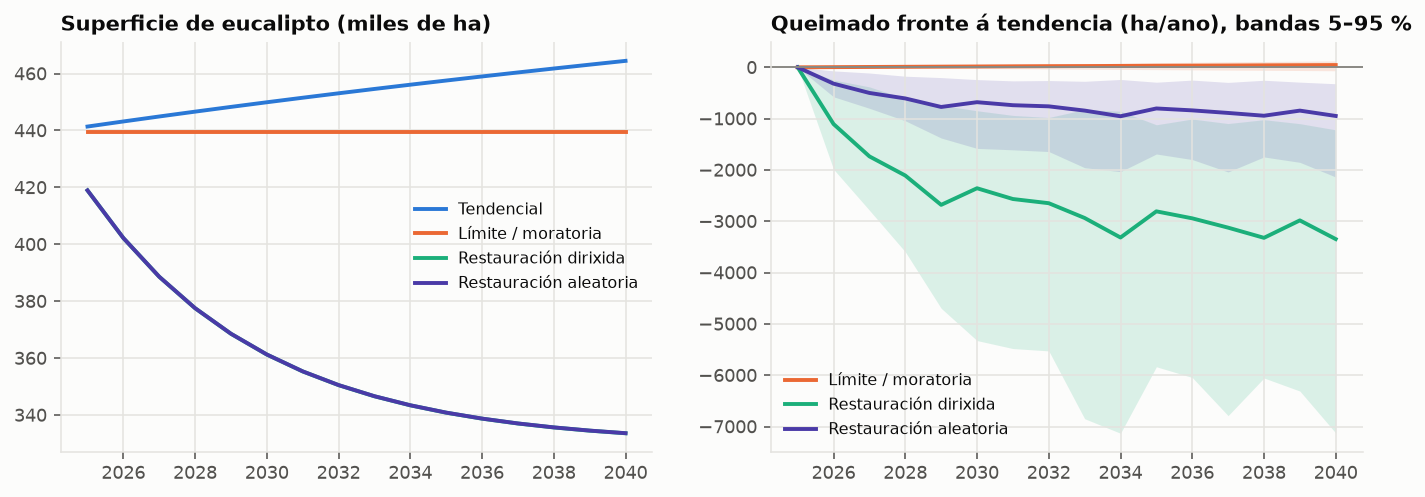
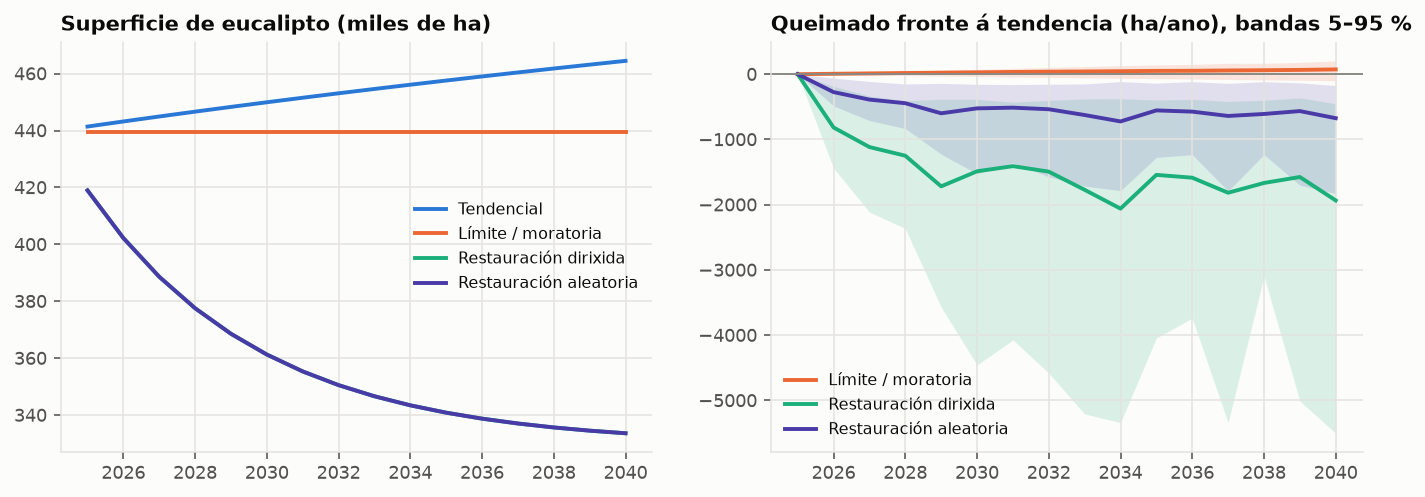
Refresh brief with calibrated projections; lookup effect labelling; README lookup section

diff --git a/src/eucalyptus_impact/real/lookup.py b/src/eucalyptus_impact/real/lookup.py
@@ -262,8 +262,9 @@ def format_lookup(r: dict, lang: str = "en") -> str:
             "sel": "na selección de restauración dirixida",
             "yes": "si",
             "no": "non",
-            "cag": "achega do eucalipto fronte a agricultura/outros",
-            "cnat": "achega do eucalipto fronte a frondosas",
+            "cag": "efecto medio galego do eucalipto desta cela, fronte a agricultura/outros",
+            "big": "maior ca a probabilidade da cela: o efecto medio non se traslada ben a celas de pouco risco",
+            "cnat": "o mesmo, fronte a frondosas",
             "ns": "non distinguible de cero",
             "plot": "Parcela IFN3 máis próxima (~1998)",
             "up": "Conca augas arriba",
@@ -298,8 +299,9 @@ def format_lookup(r: dict, lang: str = "en") -> str:
             "sel": "in targeted-restoration set",
             "yes": "yes",
             "no": "no",
-            "cag": "eucalyptus contribution vs agriculture/other",
-            "cnat": "eucalyptus contribution vs native broadleaf",
+            "cag": "Galicia-wide average effect of this cell's eucalyptus, vs agriculture/other",
+            "big": "larger than the cell's own probability: the average effect does not transfer well to low-risk cells",
+            "cnat": "same, vs native broadleaf",
             "ns": "not distinguishable from zero",
             "plot": "Nearest IFN3 plot (~1998)",
             "up": "Upstream catchment",
@@ -352,6 +354,8 @@ def format_lookup(r: dict, lang: str = "en") -> str:
                 f"  {L[lab]}: {pp(e['estimate'])} [{pp(e['ci'][0])}, {pp(e['ci'][1])}]"
                 + ("" if e["significant"] else f" ({L['ns']})")
             )
+            if abs(e["estimate"]) > k["annual_fire_probability"]:
+                lines.append(f"    ({L['big']})")
     if r.get("ifn3_plot"):
         pl = r["ifn3_plot"]
         lines += [f"\n{L['plot']}: {pl['distance_m']:.0f} m, {', '.join(pl['genera'])}"]

diff --git a/docs/galicia_real/informe.md b/docs/galicia_real/informe.md
@@ -29,7 +29,7 @@
 - **Eucalipto fronte a frondosas autóctonas.** O efecto anterior compárase coa agricultura e outros usos, que son os que máis arden. Fronte ás frondosas autóctonas, que son as que menos arden, 10 puntos de eucalipto no canto de frondosas cambian a probabilidade anual de queima en 0,39 puntos porcentuais (IC 95 % aproximado: -0,018 a 0,79; aproximado porque combina dúas estimacións separadas). Este é o contraste que importa para a restauración.
 - **Severidade.** Entre as celas queimadas, o efecto do eucalipto sobre a clase de severidade EFFIS é -0,24 por unidade de fracción (EE 0,28; non distinguible de cero; n = 2 146).
 - **Do lume á plantación.** Efecto da fracción queimada en 2018–2021 sobre a conversión bruta a eucalipto en 2024: 0,0063 (EE 0,0088), non distinguible de cero.
-- **Proxeccións a 2040.** Restaurar o 25 % do eucalipto cambia a superficie queimada media en -2 499 ha/ano se se fai nas celas prioritarias (banda 5–95 %: -3 577 a -866,9) e en -714,8 ha/ano se se fai ao chou (banda -1 077 a -244,2). Ao menos unha banda exclúe o cero, pero as proxeccións herdan a sensibilidade ao mapa descrita arriba.
+- **Proxeccións a 2040.** Restaurar o 25 % do eucalipto cambia a superficie queimada media en -1 453 ha/ano se se fai nas celas prioritarias (banda 5–95 %: -2 210 a -632) e en -515,5 ha/ano se se fai ao chou (banda -813,3 a -171,5). Ao menos unha banda exclúe o cero, pero as proxeccións herdan a sensibilidade ao mapa descrita arriba.
 - **Auga.** Sen datos de caudal non hai estimación. Unha proba de potencia nas 79 concas reais mostra que, cos mapas de 2017 e 2024, os aforos só detectarían un efecto de 139 mm/ano por 10 puntos de eucalipto ou maior; fai falta un historial de cuberta máis longo (sección 6).
 
 ## 1. Datos empregados
@@ -362,9 +362,9 @@ variabilidade meteorolóxica e a incerteza dos efectos.
 
 | escenario | Δ eucalipto (ha) | Δ frondosas autóctonas (ha) | Δ queimado medio (ha/ano) | percentil 5 | percentil 95 |
 |---|---|---|---|---|---|
-| Límite / moratoria | -24 918 | 1 663 | 22,85 | -33,92 | 66,07 |
-| Restauración dirixida | -130 892 | 107 637 | -2 499 | -3 577 | -866,9 |
-| Restauración aleatoria | -130 863 | 107 608 | -714,8 | -1 077 | -244,2 |
+| Límite / moratoria | -24 918 | 1 663 | 38,09 | -51,07 | 104,2 |
+| Restauración dirixida | -130 869 | 107 614 | -1 453 | -2 210 | -632 |
+| Restauración aleatoria | -130 863 | 107 608 | -515,5 | -813,3 | -171,5 |
 
 ![proxeccións](proxeccions.png)
 
@@ -373,7 +373,7 @@ porque se manteñen as restricións a novas plantacións):
 
 | escenario | Δ eucalipto (ha) | Δ frondosas autóctonas (ha) | Δ queimado medio (ha/ano) | percentil 5 | percentil 95 |
 |---|---|---|---|---|---|
-| Límite / moratoria | -13 477 | 816,6 | 12,44 | -17,35 | 34,82 |
+| Límite / moratoria | -13 477 | 816,7 | 21,52 | -26,43 | 56,83 |
 
 ## 6. Auga
 

diff --git a/README.md b/README.md
@@ -106,6 +106,21 @@ src/eucalyptus_impact/
 tests/                   unit tests per estimator + end-to-end run
 ```
 
+## Point lookup
+
+```bash
+.venv/bin/euc lookup 42.6187 -8.7500            # latitude, longitude (WGS84)
+.venv/bin/euc lookup 42.6187 -8.7500 --lang gl  # Galician labels
+.venv/bin/euc lookup 42.6187 -8.7500 --json     # machine-readable
+```
+
+For any point in Galicia (after `euc real run`): the 40 m species class in 2017 and 2024 with
+its confidence, WorldCover, elevation, Hansen loss year and EFFIS burnt years; the 1 km cell's
+cover, calibrated annual burn probability with its Galicia percentile and risk class,
+restoration priority, and the estimated eucalyptus effect with a 95% interval; the nearest
+IFN3 plot; and the upstream catchment's area and cover. These are model estimates with the
+limits described below (the 40 m class has plot-level F1 ~0.45).
+
 ## Real data (Galicia)
 
 ```bash
@@ -171,8 +186,10 @@ What the real-data run established, and what it did not:
   484 ha), since map differencing inflates change.
 - **Projections.** A year-by-year engine (validated on the simulator, where it overstates
   restoration benefits by about 40%) projects the scenarios to 2040 with paired uncertainty
-  bands. Restoring 25% of eucalyptus in priority cells cuts mean burnt area by about 2,500
-  ha/yr (5–95% band 870–3,600); the projections inherit the map sensitivity above.
+  bands. Restoring 25% of eucalyptus in priority cells cuts mean burnt area by about 1,450
+  ha/yr (5–95% band 630–2,210; random placement about 520); the projections inherit the map
+  sensitivity above. Baseline burn probabilities are cross-fitted by spatial block and
+  isotonic-calibrated (an earlier in-sample version inflated the high-risk tail).
 - **Water.** No gauge record is reachable (CEDEX, Augas de Galicia, MeteoGalicia, GRDC and
   Zenodo are blocked), so there is no estimate. `real/water.py` builds everything else:
   priority-flood routing on the Copernicus DEM, 79 whole non-nested catchments (30–1,500 km²),
